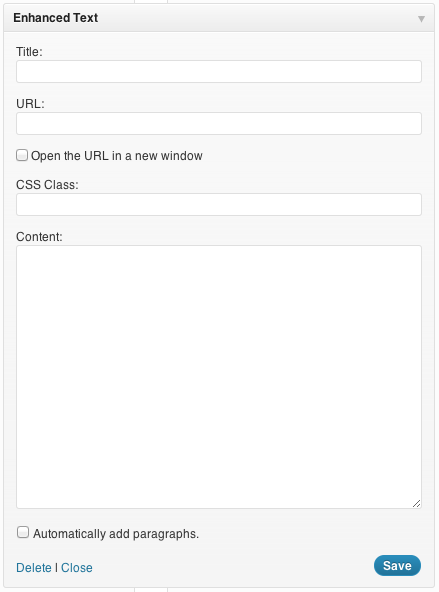
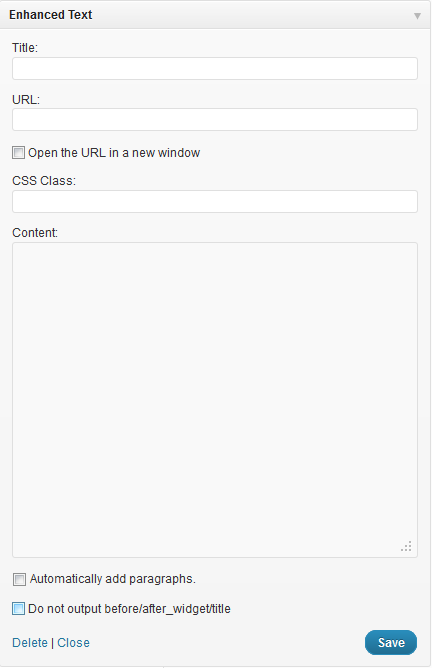
Ability to disable showing of before/after widget/title elements (aka bare text) Updated screenshot.

diff --git a/enhanced-text-widget.php b/enhanced-text-widget.php
@@ -3,7 +3,7 @@
 Plugin Name: Enhanced Text Widget
 Plugin URI: http://pomelodesign.com/enhanced-text-widget
 Description: This plugin provides a widget that supports Text, HTML, JavaScript, Flash and/or PHP as content with linkable widget titles.
-Version: 1.1
+Version: 1.2
 Author: Pomelo Design Inc.
 Author URI: http://pomelodesign.com/
 */
@@ -35,6 +35,7 @@ class EnhancedTextWidget extends WP_Widget {
         $titleUrl = apply_filters('widget_title', empty($instance['titleUrl']) ? '' : $instance['titleUrl'], $instance);
         $newWindow = $instance['newWindow'] ? '1' : '0';
         $cssClass = apply_filters('widget_title', empty($instance['cssClass']) ? '' : $instance['cssClass'], $instance);
+        $bare = $instance['bare'] ? true : false;
         $text = apply_filters( 'widget_text', $instance['text'], $instance );
         if ( $cssClass ) {
             if( strpos($before_widget, 'class') === false ) {
@@ -43,13 +44,13 @@ class EnhancedTextWidget extends WP_Widget {
                 $before_widget = str_replace('class="', 'class="'. $cssClass . ' ', $before_widget);
             }
         }
-        echo $before_widget;
+        echo $bare ? '' : $before_widget;
         if( $titleUrl && $title )
             $title = '<a href="'.$titleUrl.'"'.($newWindow == '1'?' target="_blank"':'').' title="'.$title.'">'.$title.'</a>';
-        if ( !empty( $title ) ) { echo $before_title . $title . $after_title; } ?>
+        if ( !empty( $title ) ) { echo $bare ? $title : $before_title . $title . $after_title; } ?>
             <div class="textwidget"><?php if($instance['filter']) { ob_start(); eval("?>$text<?php "); $output = ob_get_contents(); ob_end_clean(); echo wpautop($output); } else eval("?>".$text."<?php "); ?></div>
         <?php
-        echo $after_widget;
+        echo $bare ? '' : $after_widget;
     }
     
     function update( $new_instance, $old_instance ) {
@@ -57,6 +58,7 @@ class EnhancedTextWidget extends WP_Widget {
         $instance['title'] = strip_tags($new_instance['title']);
         $instance['titleUrl'] = strip_tags($new_instance['titleUrl']);
         $instance['cssClass'] = strip_tags($new_instance['cssClass']);
+        $instance['bare'] = $new_instance['bare'] ? 1 : 0;
         $instance['newWindow'] = $new_instance['newWindow'] ? 1 : 0;
         if ( current_user_can('unfiltered_html') )
             $instance['text'] =  $new_instance['text'];
@@ -72,6 +74,7 @@ class EnhancedTextWidget extends WP_Widget {
         $titleUrl = strip_tags($instance['titleUrl']);
         $newWindow = $instance['newWindow'] ? 'checked="checked"' : '';
         $cssClass = strip_tags($instance['cssClass']);
+        $bare = $instance['bare'] ? 'checked="checked"' : '';
         $text = format_to_edit($instance['text']);
 ?>
         <p><label for="<?php echo $this->get_field_id('title'); ?>"><?php _e('Title:'); ?></label>
@@ -86,6 +89,8 @@ class EnhancedTextWidget extends WP_Widget {
         <textarea class="widefat" rows="16" cols="20" id="<?php echo $this->get_field_id('text'); ?>" name="<?php echo $this->get_field_name('text'); ?>"><?php echo $text; ?></textarea>
 
         <p><input id="<?php echo $this->get_field_id('filter'); ?>" name="<?php echo $this->get_field_name('filter'); ?>" type="checkbox" <?php checked(isset($instance['filter']) ? $instance['filter'] : 0); ?> />&nbsp;<label for="<?php echo $this->get_field_id('filter'); ?>"><?php _e('Automatically add paragraphs.'); ?></label></p>
+        <p><input class="checkbox" type="checkbox" <?php echo $bare; ?> id="<?php echo $this->get_field_id('bare'); ?>" name="<?php echo $this->get_field_name('bare'); ?>" />
+        <label for="<?php echo $this->get_field_id('bare'); ?>"><?php _e('Do not output before/after_widget/title'); ?></label></p>
 <?php
     }
 }
